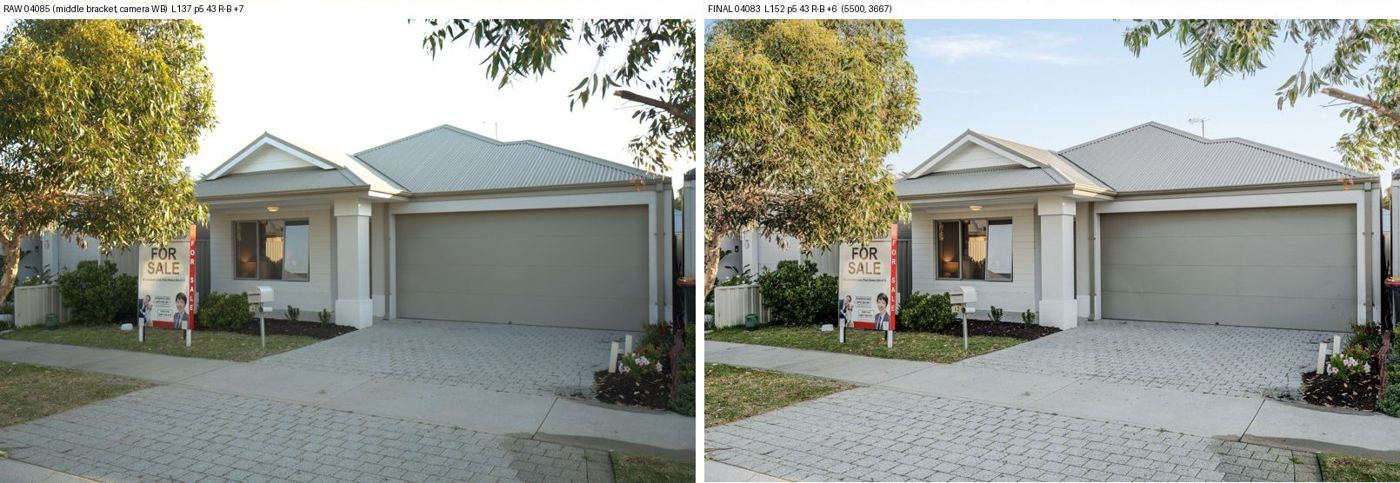
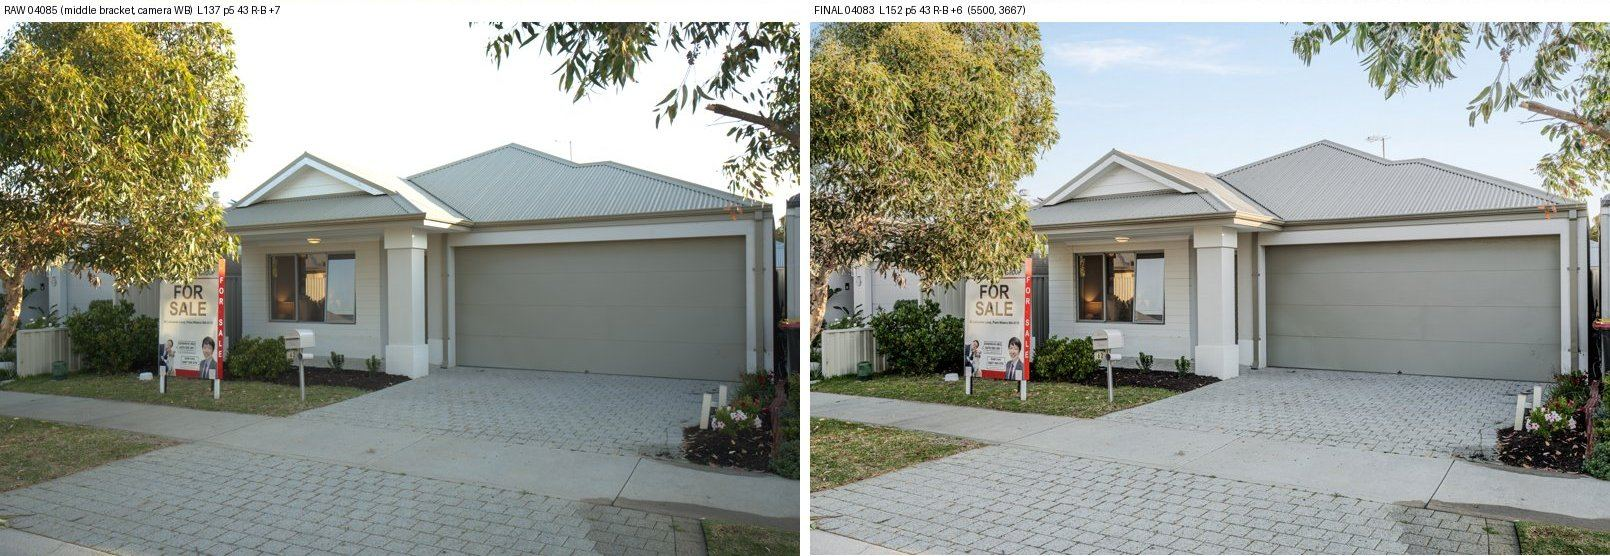
QC 13 Nov: cut to confirmed fixes only
Claude-Session: https://claude.ai/code/session_016Dz5F9tECJgDgCVqU9VtQd

diff --git a/qc/13-nov-2026-1120/editor.html b/qc/13-nov-2026-1120/editor.html
@@ -14,7 +14,7 @@ figure{margin:0}figure img{width:100%;height:auto;border-radius:8px;display:bloc
 .good{color:var(--green);font-size:15px;margin:8px 0 0}.sum{background:var(--card);border-left:5px solid var(--green);padding:14px 16px;border-radius:10px;font-size:17px}
 .target{background:var(--card);border:1px solid var(--line);border-radius:10px;padding:12px 16px;font-size:15px}
 </style></head><body><div class="wrap">
-<h1>Editing fixes — 13 Nov 2026 (12 Nov shoots)</h1><p class="sub">5 job(s) · 7 item(s) · Baker Production QC</p>
+<h1>Editing fixes — 13 Nov 2026 (12 Nov shoots)</h1><p class="sub">2 job(s) · 2 item(s) · Baker Production QC</p>
 <div class="target"><b>Please:</b> re-edit each photo below and re-upload to the same Finals folder with the same file name. <b>Target look:</b> true-to-life wall colour (match the raw – no extra warmth, no cream), deep blacks, windows pulled with a clear view, straight verticals, pale soft blue skies, same brightness room to room.</div>
 <section class="job"><div class="jh"><h2>62 Lancaster Loop, Piara Waters</h2><span class="tag FIX">FIX · 8.5/10</span></div>
 <p class="meta">Hendrick Heo · Shooter: Jason · Finals/Hendrick Heo/62 Lancaster Loop, Piara Waters WA 6112, Australia/Sales Photography</p>
@@ -25,39 +25,7 @@ figure{margin:0}figure img{width:100%;height:auto;border-radius:8px;display:bloc
 <figure><img loading="lazy" src="img/b20ab78c9495.jpg" alt="reference"><figcaption>Raw (left) vs delivered (right)</figcaption></figure>
 </div>
 </div>
-<div class="item">
-<p class="fx"><span class="fn">DSC04062</span>Carpet has gone grey and washed out – add contrast and depth</p><p class="is">Wall hotspot was fixed well; carpet lost its colour.</p>
-<div class="pics two">
-<figure><img loading="lazy" src="img/7e90ddee9338.jpg" alt="DSC04062 final"><figcaption>Delivered edit</figcaption></figure>
-<figure><img loading="lazy" src="img/26c7a800d2bd.jpg" alt="reference"><figcaption>Raw (left) vs delivered (right)</figcaption></figure>
-</div>
-</div>
-<div class="item">
-<p class="fx"><span class="fn">DSC04083 + DSC04083 - edited</span>Lift the facade shadows so the house is bright</p><p class="is">Front is dim and grey under the tree shade.</p>
-<div class="pics two">
-<figure><img loading="lazy" src="img/809d6ba48e65.jpg" alt="DSC04083 + DSC04083 - edited final"><figcaption>Delivered edit</figcaption></figure>
-<figure><img loading="lazy" src="img/e370599e3f0a.jpg" alt="reference"><figcaption>Raw (left) vs delivered (right)</figcaption></figure>
-</div>
-</div>
 <p class="good">Done well: wall colour kept true to the house (slightly warm off-white); living room windows pulled nicely; study wall hotspot removed; lens corners fixed; pale sky on the front</p>
-</section>
-<section class="job"><div class="jh"><h2>16 Ashworth St, Cloverdale</h2><span class="tag FIX">FIX · 8.8/10</span></div>
-<p class="meta">Finals – 16 Ashworth St, Cloverdale</p>
-<div class="item">
-<p class="fx"><span class="fn">DSC09190</span>Straighten – fence and verticals lean about 2°</p><p class="is">Rear yard shot.</p>
-<div class="pics ">
-<figure><img loading="lazy" src="img/89c20f76f600.jpg" alt="DSC09190 final"><figcaption>Delivered edit</figcaption></figure>
-</div>
-</div>
-</section>
-<section class="job"><div class="jh"><h2>11 Delgado Parade, Iluka</h2><span class="tag FIX">FIX · 8.6/10</span></div>
-<p class="meta">Finals – 11 Delgado Parade, Iluka</p>
-<div class="item">
-<p class="fx"><span class="fn">DSC06696</span>Soften the window pull so the outside looks natural</p><p class="is">Window view is overcooked.</p>
-<div class="pics ">
-<figure><img loading="lazy" src="img/9358ffefc9e8.jpg" alt="DSC06696 final"><figcaption>Delivered edit</figcaption></figure>
-</div>
-</div>
 </section>
 <section class="job"><div class="jh"><h2>9 Serpentine Meander, Gosnells</h2><span class="tag FIX">FIX · 9.0/10</span></div>
 <p class="meta">Tim (Nexus Realty) · Finals – 9 Serpentine Meander, Gosnells</p>
@@ -65,15 +33,6 @@ figure{margin:0}figure img{width:100%;height:auto;border-radius:8px;display:bloc
 <p class="fx"><span class="fn">DSC02770</span>Pull the glass door on the right from a darker bracket</p><p class="is">Door glass blown to pure white in the kitchen shot.</p>
 <div class="pics ">
 <figure><img loading="lazy" src="img/0de7c49f7125.jpg" alt="DSC02770 final"><figcaption>Delivered edit</figcaption></figure>
-</div>
-</div>
-</section>
-<section class="job"><div class="jh"><h2>1/9 Clara St, Gosnells</h2><span class="tag FIX">FIX · 9.3/10</span></div>
-<p class="meta">PK (FNRS) · Finals – 1/9 Clara St, Gosnells</p>
-<div class="item">
-<p class="fx"><span class="fn">DSC02906</span>Pull the windows so the view shows</p><p class="is">Windows washed out.</p>
-<div class="pics ">
-<figure><img loading="lazy" src="img/e2546b1f6b90.jpg" alt="DSC02906 final"><figcaption>Delivered edit</figcaption></figure>
 </div>
 </div>
 </section>

diff --git a/qc/13-nov-2026-1120/shoot.html b/qc/13-nov-2026-1120/shoot.html
@@ -31,7 +31,14 @@ figure{margin:0}figure img{width:100%;height:auto;border-radius:8px;display:bloc
 <figure><img loading="lazy" src="img/b20ab78c9495.jpg" alt=""><figcaption>Raw (left) vs delivered (right)</figcaption></figure>
 </div>
 </section>
-<section class="job"><div class="jh"><h2>11 Delgado Parade, Iluka</h2><span class="tag FIX">FIX · 8.6/10</span></div>
+<section class="job"><div class="jh"><h2>9 Serpentine Meander, Gosnells</h2><span class="tag FIX">FIX · 9.0/10</span></div>
+<p class="meta">Tim (Nexus Realty)</p>
+<div class="item">
+<p class="fx">Five empty bedrooms from the same corner</p><p class="is">Vary the angle (window wall, through the doorway) or deliver fewer. DSC02704 sink shot is an awkward tight crop.</p>
+<figure><img loading="lazy" src="img/a8d00438e125.jpg" alt=""><figcaption>DSC02704</figcaption></figure>
+</div>
+</section>
+<section class="job"><div class="jh"><h2>11 Delgado Parade, Iluka</h2><span class="tag PASS">PASS · 9.0/10</span></div>
 <p class="meta"></p>
 <div class="item">
 <p class="fx">Near-identical pool shots delivered</p><p class="is">DSC06700 and DSC06705 are almost the same frame – pick one before sending to the editor.</p>
@@ -39,13 +46,6 @@ figure{margin:0}figure img{width:100%;height:auto;border-radius:8px;display:bloc
 </div>
 <div class="item">
 <p class="fx">Mixed image sizes</p><p class="is">Set has 5500px and 6000px files – two bodies or crop settings. Keep one setting per job.</p>
-</div>
-</section>
-<section class="job"><div class="jh"><h2>9 Serpentine Meander, Gosnells</h2><span class="tag FIX">FIX · 9.0/10</span></div>
-<p class="meta">Tim (Nexus Realty)</p>
-<div class="item">
-<p class="fx">Five empty bedrooms from the same corner</p><p class="is">Vary the angle (window wall, through the doorway) or deliver fewer. DSC02704 sink shot is an awkward tight crop.</p>
-<figure><img loading="lazy" src="img/a8d00438e125.jpg" alt=""><figcaption>DSC02704</figcaption></figure>
 </div>
 </section>
 <section class="job"><div class="jh"><h2>40 Elder Parade, Bassendean</h2><span class="tag PASS">PASS · 9.5/10</span></div>
